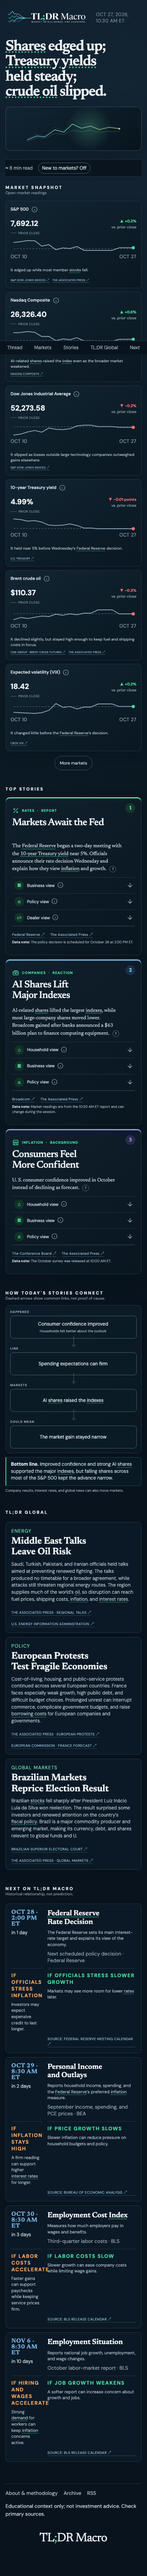
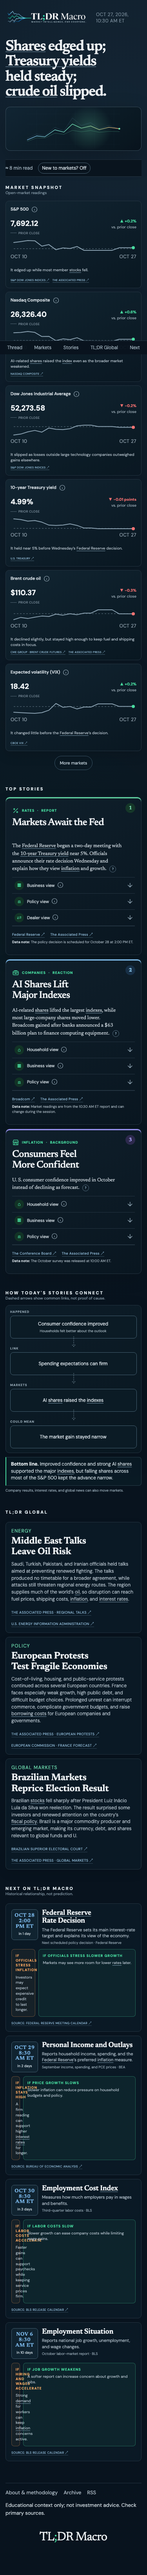
Balance event outcomes and simplify term links

diff --git a/app/EventCalendar.tsx b/app/EventCalendar.tsx
@@ -1,4 +1,4 @@
 "use client";
 import {useEffect,useState} from "react";import AnnotatedText from "./AnnotatedText";
 type Event={date:string;time:string;title:string;definition:string;prior?:string;consensus?:string;hot_label:string;cool_label:string;hot:string;cool:string;source:string;href:string;start_at?:string};const eventId=(event:Event)=>`calendar-${event.date}-${event.title}`.toLowerCase().replace(/[^a-z0-9]+/g,"-").replace(/(^-|-$)/g,"");
-export default function EventCalendar({events,published}:{events:Event[];published:string}){const[now,setNow]=useState<number|null>(null);useEffect(()=>{const timer=setTimeout(()=>setNow(Date.now()),0);return()=>clearTimeout(timer)},[]);const reference=now??new Date(published).getTime(),upcoming=events.filter(event=>!event.start_at||new Date(event.start_at).getTime()>reference).slice(0,5);return <div className="event-list">{upcoming.map(event=>{const seen=new Set<string>(),days=event.start_at?Math.max(1,Math.ceil((new Date(event.start_at).getTime()-reference)/86400000)):null;return <article id={eventId(event)} key={`${event.date}-${event.title}`}><time>{event.date} <span aria-hidden="true">·</span> {event.time}{days?<small>in {days} {days===1?"day":"days"}</small>:null}</time><div className="event-main"><h3><AnnotatedText text={event.title} seen={seen}/></h3><p><AnnotatedText text={event.definition} seen={seen}/></p>{event.prior?<span><AnnotatedText text={event.prior} seen={seen}/></span>:null}</div><div className="scenario scenario-higher"><b>{event.hot_label}</b><p><AnnotatedText text={event.hot} seen={seen}/></p></div><div className="scenario scenario-lower"><b>{event.cool_label}</b><p><AnnotatedText text={event.cool} seen={seen}/></p></div><a href={event.href} target="_blank" rel="noreferrer">Source: {event.source} ↗</a></article>})}</div>}
+export default function EventCalendar({events,published}:{events:Event[];published:string}){const[now,setNow]=useState<number|null>(null);useEffect(()=>{const timer=setTimeout(()=>setNow(Date.now()),0);return()=>clearTimeout(timer)},[]);const reference=now??new Date(published).getTime(),upcoming=events.filter(event=>!event.start_at||new Date(event.start_at).getTime()>reference).slice(0,5);return <div className="event-list">{upcoming.map(event=>{const seen=new Set<string>(),days=event.start_at?Math.max(1,Math.ceil((new Date(event.start_at).getTime()-reference)/86400000)):null;return <article id={eventId(event)} key={`${event.date}-${event.title}`}><div className="event-overview"><time>{event.date} <span aria-hidden="true">·</span> {event.time}{days?<small>in {days} {days===1?"day":"days"}</small>:null}</time><div className="event-main"><h3><AnnotatedText text={event.title} seen={seen}/></h3><p><AnnotatedText text={event.definition} seen={seen}/></p>{event.prior?<span><AnnotatedText text={event.prior} seen={seen}/></span>:null}</div></div><div className="event-outcomes"><div className="scenario scenario-higher"><b>{event.hot_label}</b><p><AnnotatedText text={event.hot} seen={seen}/></p></div><div className="scenario scenario-lower"><b>{event.cool_label}</b><p><AnnotatedText text={event.cool} seen={seen}/></p></div></div><a href={event.href} target="_blank" rel="noreferrer">Source: {event.source} ↗</a></article>})}</div>}

diff --git a/app/globals.css b/app/globals.css
@@ -602,3 +602,27 @@ body {
   .linear-thread { padding:11px; }
   .thread-node { min-height:58px; }
 }
+
+/* Approved Oct. 27 neutral definitions and balanced event outcomes. */
+button.term,.term,.market-title .term { text-decoration-line:underline; text-decoration-style:solid; text-decoration-thickness:1px; text-decoration-color:#7895a8; text-underline-offset:3px; }
+button.term:hover,.term:hover { text-decoration-color:#a9c4d4; }
+.event-list article { display:flex; min-height:0; flex-direction:column; gap:10px; padding:14px; }
+.event-overview { display:grid; grid-template-columns:78px minmax(0,1fr); gap:12px; align-items:start; }
+.event-overview time { padding:8px 7px; border:1px solid #425d6d; border-radius:7px; background:#102330; font-size:13px; line-height:1.05; text-align:center; }
+.event-overview time span { display:none; }
+.event-overview time small { margin-top:6px; font-size:9px; }
+.event-main h3 { margin-bottom:4px; font-size:18px; }
+.event-main p { font-size:11px; line-height:1.38; }
+.event-main>span { margin-top:4px; font-size:9px; }
+.event-outcomes { display:grid; grid-template-columns:repeat(2,minmax(0,1fr)); gap:8px; }
+.event-outcomes .scenario { min-width:0; padding:10px; border:1px solid; border-radius:7px; }
+.event-outcomes .scenario-higher { border-color:rgb(239 159 82 / .35); background:rgb(239 159 82 / .055); }
+.event-outcomes .scenario-lower { border-color:rgb(72 220 160 / .35); background:rgb(72 220 160 / .055); }
+.event-outcomes .scenario b { min-height:25px; margin-bottom:5px; font-size:9px; line-height:1.35; }
+.event-outcomes .scenario p { font-size:10px; line-height:1.38; }
+.event-list article>a { align-self:flex-start; margin-top:auto; font-size:8px; }
+@media (max-width:760px) {
+  .event-overview { grid-template-columns:68px minmax(0,1fr); gap:10px; }
+  .event-outcomes { grid-template-columns:1fr; }
+  .event-outcomes .scenario b { min-height:0; }
+}

diff --git a/DESIGN_REQUESTS.md b/DESIGN_REQUESTS.md
@@ -1,5 +1,9 @@
 # Design requests
 
+## 2026-10-27 — Neutral term links and balanced event outcomes
+
+Approved by the user in chat with a screenshot of the current event cards and the earlier compact-dashboard reference. Replace green dotted term decoration with a quiet neutral solid underline while preserving contextual definitions. Rebuild each Next on TL;DR Macro card as a compact date-and-title overview followed by equal-width orange and green outcome panels with identical spacing, type hierarchy, and prominence. Reduce excess card height and preserve verified copy, sources, keyboard access, responsive behavior, and scenario neutrality.
+
 ## 2026-10-27 — Self-contained definitions and collision-free charts
 
 Approved by the user in chat. Remove visible glossary navigation and glossary calls-to-action; keep definitions, synonyms, relevance, and viewpoint explanations inside the existing contextual info and term popovers. Limit rendered prose blocks to no more than three sentences, and move the prior-close chart label into a dedicated legend row so it cannot overlap the sparkline, endpoint, or date labels. Preserve the underlying verified data, sources, accessibility text, keyboard behavior, and responsive design.

diff --git a/DATA_REPORT.md b/DATA_REPORT.md
@@ -1,6 +1,6 @@
 # Data Report
 
-Generated: 2026-10-27T20:50:30.520Z
+Generated: 2026-10-27T20:54:37.849Z
 
 | Instrument | Provider | Series | Frequency | Latest timestamp | Baseline | Chart points | Status |
 |---|---|---|---|---|---|---:|---|

diff --git a/VERIFY_REPORT.md b/VERIFY_REPORT.md
@@ -1,6 +1,6 @@
 # Verification report
 
-Generated: 2026-10-27T20:50:28.270Z
+Generated: 2026-10-27T20:54:34.831Z
 Edition: 2026-10-27
 Status: PASSED
 
